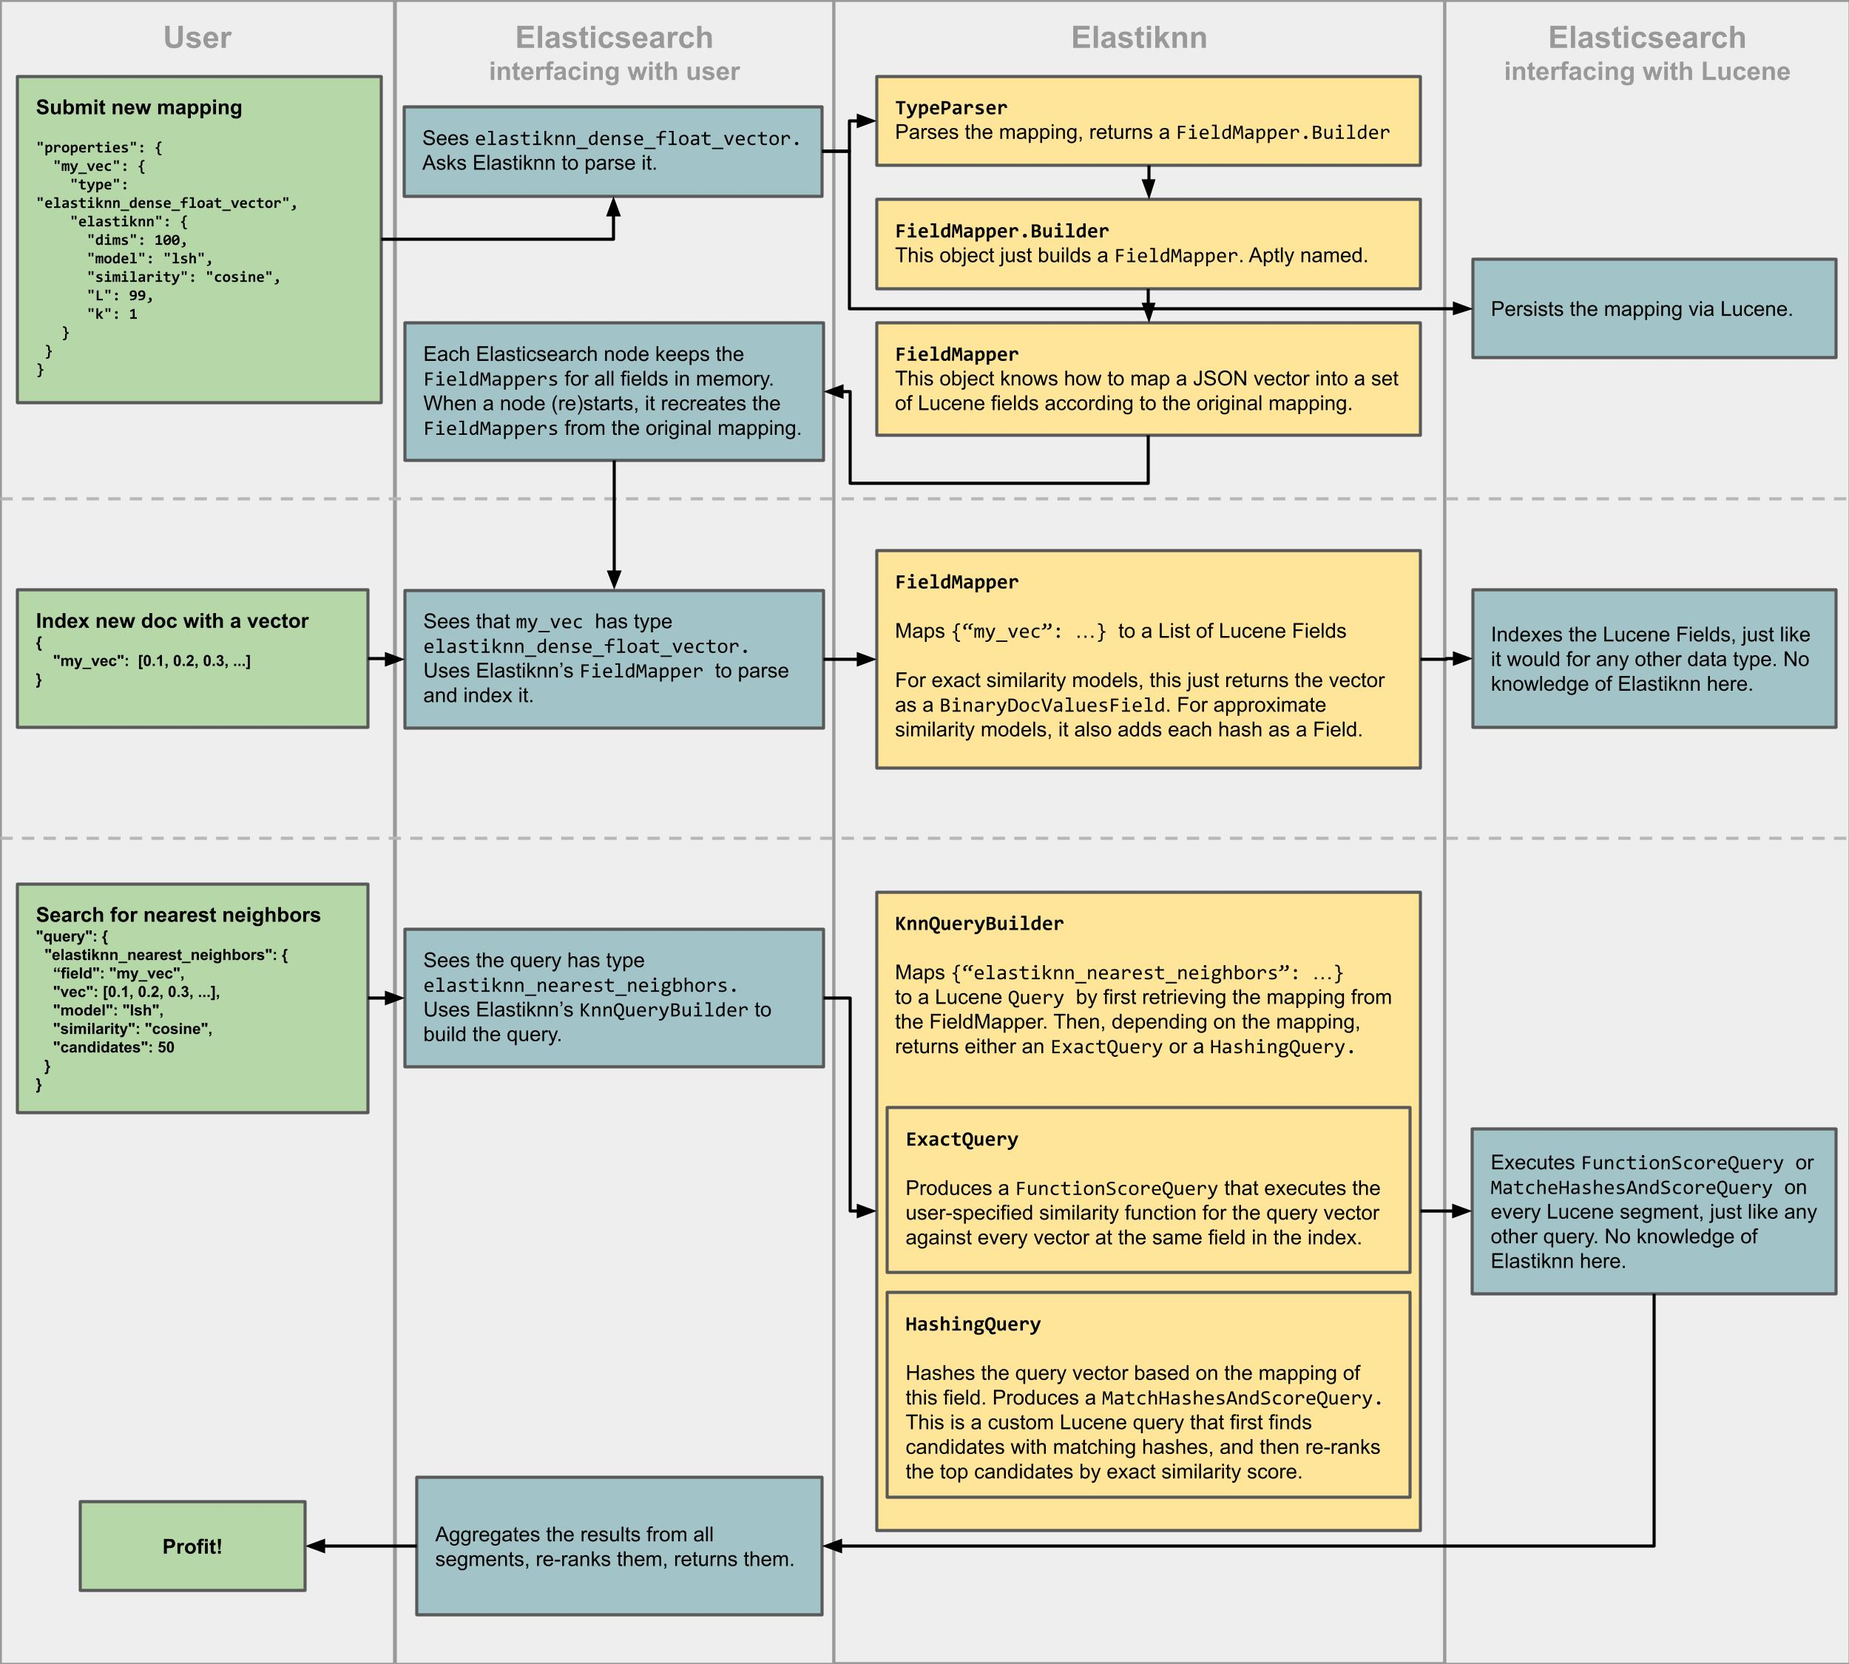
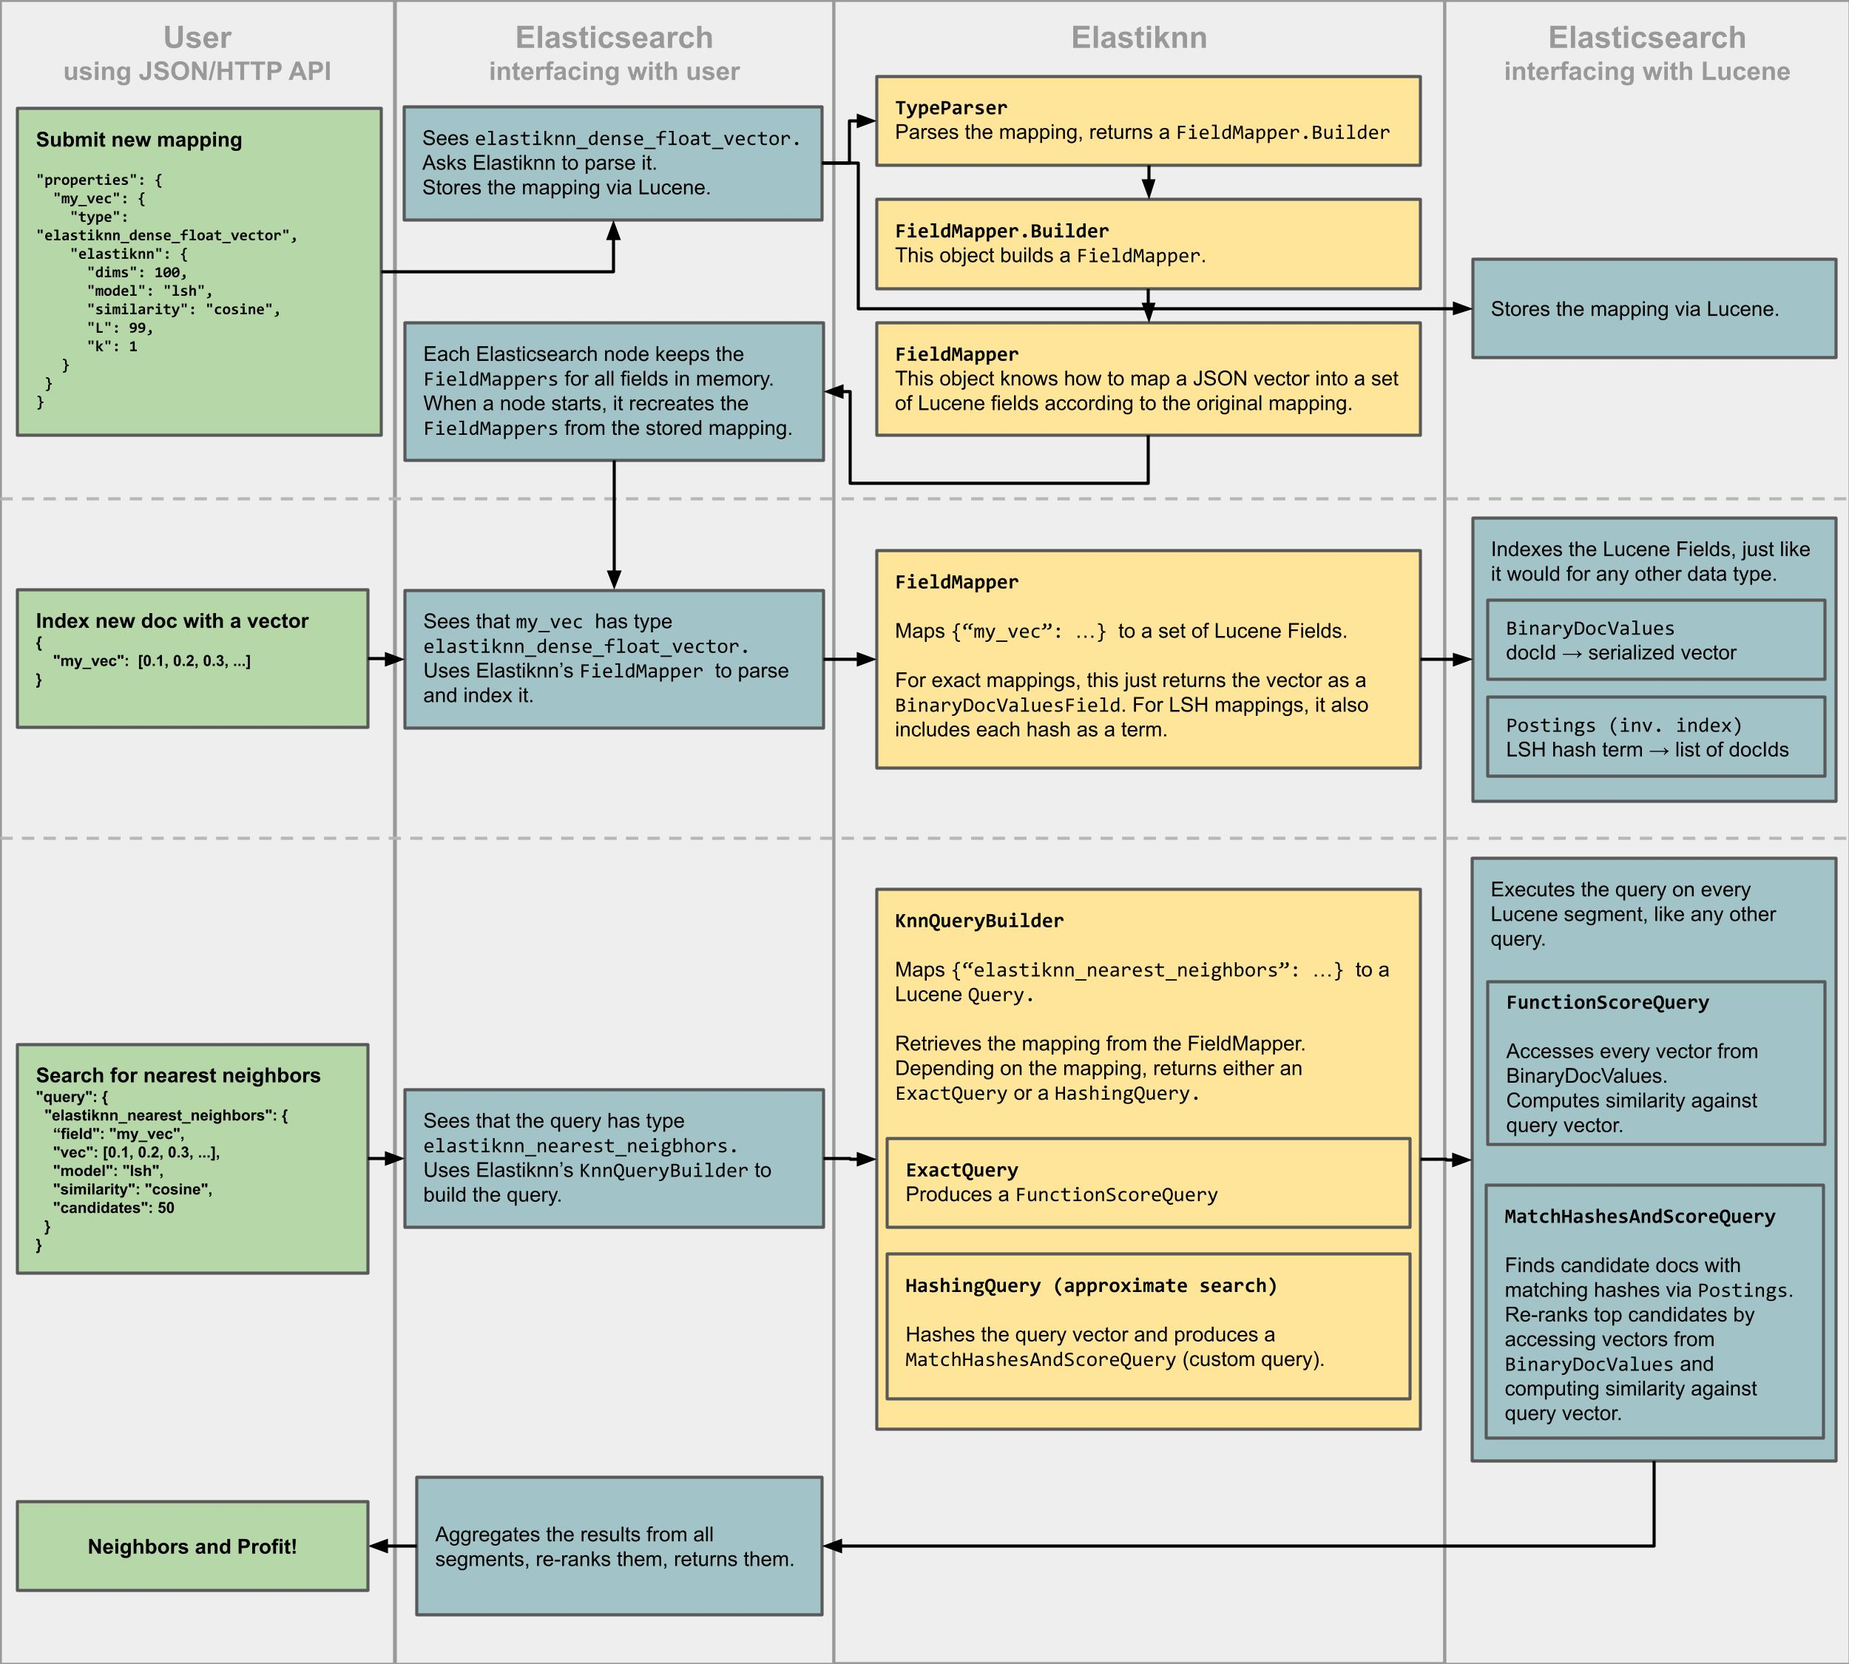
Progress on diagram and general document structure

diff --git a/docs/_posts/2021-07-30-how-does-elastiknn-work.md b/docs/_posts/2021-07-30-how-does-elastiknn-work.md
@@ -3,35 +3,36 @@ layout: single
 title: "How Does Elastiknn Work?"
 permalink: /posts/how-does-elastiknn-work-july-2021/
 date: 2021-07-24 18:00:00 -0500
-author_profile: false
+author_profile: true
 author: Alex Klibisz
 excerpt: "This post walks through the implementation of Elastiknn. If I've done my job well, you should find it's pretty simple."
 classes: wide
 ---
 
 This post covers the implementation of Elastiknn in fairly thorough detail. 
-The only way to get _more_ detail is to read and modify the code on [Github](https://github.com/alexklibisz/elastiknn), which is also recommended as a follow-up.
+The best way to get _more_ detail is to explore and contribute to the project, hosted on [Github](https://github.com/alexklibisz/elastiknn).
 
-Hopefully I can convey that this implementation is just a combination of a few simple concepts, with only a couple non-trivial optimizations for better performance.
+This post should (ideally) convey that Elastiknn is just a combination of a few simple concepts, with a couple interesting optimizations for better performance.
 
-This post assumes familiarity with nearest neighbor search (aka "vector search").
-If you need a refresher on this topic, there are a number of existing resources.[^ann-resources]
-
-This post also assumes familiarity with Elasticsearch and Lucene.[^elasticsearch-resources]
+This post assumes some familiarity with nearest neighbor search (aka "vector search"),[^vector-search-resources] 
+Locality Sensitive Hashing,[^lsh-resources]
+and Elasticsearch and Lucene.[^elasticsearch-resources]
   
-This post does not directly cover the Elastiknn API. If that's of interest, I recommend reading the [API docs](/api) and the [Multimodal Search on the Amazon Products Dataset tutorial](http://localhost:4000/tutorials/multimodal-search-amazon-products-dataset/).
+This post does not directly cover the Elastiknn API. If that's of interest, I recommend reading the [API docs](/api) and the tutorial for [Multimodal Search on the Amazon Products Dataset](http://localhost:4000/tutorials/multimodal-search-amazon-products-dataset/).
 
 ## What does Elastiknn do?
 
 In short, Elastiknn is an Elasticsearch plugin for exact and approximate nearest neighbor search.
-The fill list of features (copied from the home page) is as follows:
+The name is a combination of _Elastic_ and _KNN_ -- I pronounce it _elasti-knn_.
+
+The full list of features (copied from the home page) is as follows:
 
 - Datatypes to efficiently store dense and sparse numerical vectors in Elasticsearch documents, including multiple vectors per document.
 - Exact nearest neighbor queries for five similarity functions: [L1](https://en.wikipedia.org/wiki/Taxicab_geometry), [L2](https://en.wikipedia.org/wiki/Euclidean_distance), [Cosine](https://en.wikipedia.org/wiki/Cosine_similarity), [Jaccard](https://en.wikipedia.org/wiki/Jaccard_index), and [Hamming](https://en.wikipedia.org/wiki/Hamming_distance).
-- Approximate queries using [Locality Sensitive Hashing](https://en.wikipedia.org/wiki/Locality-sensitive_hashing) and related algorithms for L2, Cosine, Jaccard, and Hamming similarity.
+- Approximate queries using [Locality Sensitive Hashing](https://en.wikipedia.org/wiki/Locality-sensitive_hashing) for L2, Cosine, Jaccard, and Hamming similarity.
 - Integration of nearest neighbor queries with standard Elasticsearch queries.
 - Incremental index updates: start with any number of vectors and incrementally create/update/delete more without ever re-building the entire index.
-- Implementation based on standard Elasticsearch and Lucene primitives, entirely in the JVM. This means deployment is a simple plugin installation and indexing and querying both scale horizontally with Elasticsearch.
+- Implementation based on standard Elasticsearch and Lucene primitives, entirely in the JVM. Indexing and querying scale horizontally with Elasticsearch.
 
 The API is embedded into the standard Elasticsearch JSON-over-HTTP API -- [see the API docs](/api).
 
@@ -44,7 +45,7 @@ The clients and libraries are [documented on the Libraries page](/libraries).
 ### Language
 
 The Elastiknn plugin implementation is about 60% Scala and 40% Java.
-Scala is a JVM-based language, meaning you can call Java code from Scala, call Scala code from Java (with some limitations), and bundle Scala and Java sources in a single JAR.
+Scala is a JVM-based language, meaning you can call Java code from Scala, call Scala code from Java (with some limitations), and provide Scala and Java sources in a single JAR.
 I find Scala to be a more expressive and productive language,[^scala-example-1] however its abstractions are not always free.
 I use Scala in all the places where the need for productive abstraction and type-safety exceeds the need for speed.[^scala-example-2]
 I use Java to implement the CPU-bound similarity models and Lucene queries.[^note-scala-java]
@@ -65,13 +66,14 @@ The Elasticsearch plugin sources are compiled and packaged as a zip file (pretty
 You can run this installation command on each node at startup, or simply build it into a Docker image.
 
 Finally, Elasticsearch plugins need to be re-built and re-released for every specific release of Elasticsearch.
-This is because Elasticsearch only maintains backwards-compatibility at the HTTP API level -- the Java internals usually have a few minor breaking changes for every release.
+This is because Elasticsearch only maintains backwards-compatibility at the HTTP API level.
+The Java internals usually have a few minor breaking changes for every release.
 This makes it difficult to backport bug-fixes and new features to older versions of the plugin.
 Elastiknn has so far taken the approach that bug-fixes and new features are released only for the latest version of Elasticsearch.[^gradle]
 
 ### Diagram Overview
 
-This diagram should help understand the discrete parts of Elastiknn and how they interact with Elasticsearch and Lucene.
+This diagram should help understand the components of Elastiknn and how they interact with Elasticsearch and Lucene.
 
 The diagram is partitioned into rows and columns.
 The rows delineate three use-cases, from top to bottom: specifying a mapping that includes a vector, indexing a new document according to this mapping, 
@@ -84,17 +86,73 @@ Without further ado:
 
 The main takeaway from this diagram should be that Elastiknn has three responsibilities:
 
-1. Parsing a JSON mapping into an object that can execute the next two responsibilities.
-2. Indexing a vector by converting it to its corresponding Lucene fields, which are indexed by Lucene.
-3. Executing a nearest neighbor query by converting the query vector into a Lucene query, which is executed by Lucene.
+1. `TypeParser` parses a JSON mapping into a `TypeMapper`
+2. `TypeMapper` converts a vector into Lucene fields, which are indexed by Lucene
+3. `KnnQueryBuilder` converts the query vector into a Lucene query, executed by Lucene
 
 Elasticsearch and Lucene handle everything else: serving requests, indexing documents, and executing queries.
 
-The most important and interesting parts of Elastiknn are the similarity models and the custom `MatchHashesAndScoreQuery`.
-The similarity models are used in the `FieldMapper` and `KnnQueryBuilder` to convert vectors into Lucene Fields.
+The most important and interesting parts of Elastiknn are the hashing models and the custom `MatchHashesAndScoreQuery`.
+The hashing models are used in the `TypeMapper` and `KnnQueryBuilder` to convert vectors into Lucene Fields.
 The `MatchHashesAndScoreQuery` executes a very simple (but carefully-optimized) term-based document retrieval and re-ranking.
 
 I'll talk more about both of these in the upcoming sections.
+
+## Hashing Models
+
+As a quick reminder, the idea of Locality Sensitive Hashing is that we can approximate exact similarity of vectors by converting them into discrete hashes,
+with the key property that the probability of a hash collision for any pair of vectors correlates to their exact similarity.
+
+This model is particularly compelling with respect to Lucene and Elasticsearch: it allows us to store and search vector hashes just like words in a standard text document.
+In fact, there is absolutely zero difference in how Lucene handles vector hashes compared to plain old words. 
+Both are serialized as byte arrays and used as keys in an inverted index.
+
+With that in mind, this section will cover five of Elastiknn's hashing models.
+The models differ in their specific implementation, generally based on the similarity function they approximate, but they all share the same interface:
+
+> take a vector as input and produce a set of hashes as output.
+
+The `HashingModel` interface should convey this concisely. Hashes can be repeated for some models, hence the `HashAndFreq` type.
+
+```java
+package com.klibisz.elastiknn.models;
+
+public class HashingModel {
+    public interface SparseBool {
+        HashAndFreq[] hash(int[] trueIndices, int totalIndices);
+    }
+    public interface DenseFloat {
+        HashAndFreq[] hash(float[] values);
+    }
+}
+
+// ...
+
+// A hash represented as a byte array and the frequency with which this hash occurred.
+public class HashAndFreq implements Comparable<HashAndFreq> {
+    public final byte[] hash;
+    public final int freq;
+    
+    // Typical POJO boilerplate omitted.
+}
+```
+
+Without further ado, let's have a look at each of the hashing models.
+
+### L2 LSH
+
+### Cosine LSH
+
+### Permutation LSH
+
+### Jaccard LSH
+
+### Hamming LSH
+
+
+## MatchHashesAndScoreQuery
+
+<!--
 
 ## Indexing and Searching Strategies
 
@@ -112,32 +170,24 @@ I'll talk more about both of these in the upcoming sections.
 
 ## Locality Sensitive Hashing Algorithms
 
-### L2 LSH
-
-### Cosine LSH
-
-### Permutation LSH
-
-### Jaccard LSH
-
-### Hamming LSH
-
 ## Interesting Optimizations
 
 ### Fast Vector Serialization
 
 ### Custom Lucene Query
-
+--> 
 ---
 
 <!--Footnotes-->
 
-[^ann-resources]: For a thorough textbook introduction (including a bit of math), read Chapter 3 of [Mining of Massive Datasets](http://www.mmds.org/). For a thorough video lecture introduction, watch lectures 13 through 20 of the [Scalable Data Science course from IIT Kharagpur](https://www.youtube.com/watch?v=06HGoXE6GAs&list=PLbRMhDVUMngekIHyLt8b_3jQR7C0KUCul&index=14). For an explanation in the context of large-scale ANN, read [this Medium article about the upcoming Billion-Scale Approximate Nearest Neighbor Search Challenge](https://medium.com/big-ann-benchmarks/neurips-2021-announcement-the-billion-scale-approximate-nearest-neighbor-search-challenge-72858f768f69). For a brief introduction aimed at Elastiknn users, start watching [this presentation at 1m56s](https://youtu.be/M4vqhmSZMTI?t=116).
+[^vector-search-resources]: For a brief introduction to vector search aimed at Elastiknn users, start watching [this presentation at 1m56s](https://youtu.be/M4vqhmSZMTI?t=116). For a more general introduction, see [this Medium article about the Billion-Scale Approximate Nearest Neighbor Search Challenge](https://medium.com/big-ann-benchmarks/neurips-2021-announcement-the-billion-scale-approximate-nearest-neighbor-search-challenge-72858f768f69).
+[^lsh-resources]: For a thorough textbook introduction to Locality Sensitive Hashing, including a bit of math, read Chapter 3 of [Mining of Massive Datasets](http://www.mmds.org/). For a thorough video lecture introduction, watch lectures 13 through 20 of the [Scalable Data Science course from IIT Kharagpur](https://www.youtube.com/watch?v=06HGoXE6GAs&list=PLbRMhDVUMngekIHyLt8b_3jQR7C0KUCul&index=14). 
+[^elasticsearch-resources]: The short story is: Lucene is a search library implemented in Java, generally intended for text search. You give Lucene some documents, and it parses the terms and stores an inverted index. You give it some terms, and it uses the inverted index to tell you which documents contain those terms. Elasticsearch is basically a distributed cluster of Lucene indices with a JSON API.
 [^scala-example-1]: Consider the difference between representing different query types as [Scala case classes](https://github.com/alexklibisz/elastiknn/blob/dcabb8cbf6d793fe83ac85a2a6ffa91786f87c73/elastiknn-api4s/src/main/scala/com/klibisz/elastiknn/api/package.scala#L126-L167) vs. [Java POJOs](https://github.com/alexklibisz/elastiknn/blob/dcabb8cbf6d793fe83ac85a2a6ffa91786f87c73/elastiknn-client-java/src/main/java/com/klibisz/elastiknn/api4j/ElastiknnNearestNeighborsQuery.java#L12-L158).
 [^scala-example-2]: For example, [this pattern rewrites a user-provided query and an existing index mapping into an internal Elasticsearch query](https://github.com/alexklibisz/elastiknn/blob/6798e3b4e4c08a1ac14e9be668761fc284bbacaa/elastiknn-plugin/src/main/scala/com/klibisz/elastiknn/query/ElastiknnQuery.scala#L52-L112). 
 [^note-scala-java]: When deciding to use Java or Scala, I find it useful to ask if I'm optimizing "in the large" or "in the small." For more context, read the first couple sections of [Daniel Spiewak](https://twitter.com/djspiewak)'s post [Why are Fibers Fast?](https://typelevel.org/blog/2021/02/21/fibers-fast-mkay.html).
-[^gradle]: The only legitimate alternative seems to be maintaining a separate copy of the code for every version of Elasticsearch. This seems to be the approach taken by [read-only-rest](https://github.com/sscarduzio/elasticsearch-readonlyrest-plugin).
-[^elasticsearch-resources]: The short story is: Lucene is a search library implemented in Java. You give it some documents and it parses out the terms and stores an inverted index. You give it some terms, it uses the inverted index to tell you which documents contain those terms. Elasticsearch is basically a distributed cluster of Lucene indices with a JSON API.  
+[^gradle]: The only alternative seems to be maintaining a separate copy of the code for every version of Elasticsearch. This seems to be the approach taken by [read-only-rest](https://github.com/sscarduzio/elasticsearch-readonlyrest-plugin).
+  
 
 
 

diff --git a/docs/pages/index.md b/docs/pages/index.md
@@ -16,10 +16,10 @@ This enables users to combine traditional queries (e.g., "some product") with ve
 
 - Datatypes to efficiently store dense and sparse numerical vectors in Elasticsearch documents, including multiple vectors per document.
 - Exact nearest neighbor queries for five similarity functions: [L1](https://en.wikipedia.org/wiki/Taxicab_geometry), [L2](https://en.wikipedia.org/wiki/Euclidean_distance), [Cosine](https://en.wikipedia.org/wiki/Cosine_similarity), [Jaccard](https://en.wikipedia.org/wiki/Jaccard_index), and [Hamming](https://en.wikipedia.org/wiki/Hamming_distance).
-- Approximate queries using [Locality Sensitive Hashing](https://en.wikipedia.org/wiki/Locality-sensitive_hashing) and related algorithms for L2, Cosine, Jaccard, and Hamming similarity.
+- Approximate queries using [Locality Sensitive Hashing](https://en.wikipedia.org/wiki/Locality-sensitive_hashing) for L2, Cosine, Jaccard, and Hamming similarity.
 - Integration of nearest neighbor queries with standard Elasticsearch queries.
 - Incremental index updates. Start with 1 vector or 1 million vectors and then create/update/delete documents and vectors without ever re-building the entire index.
-- Implementation based on standard Elasticsearch and Lucene primitives, entirely in the JVM. This means deployment is a simple plugin installation and indexing and querying both scale horizontally with Elasticsearch.
+- Implementation based on standard Elasticsearch and Lucene primitives, entirely in the JVM. Indexing and querying scale horizontally with Elasticsearch.
 
 _Non-Features_
 
